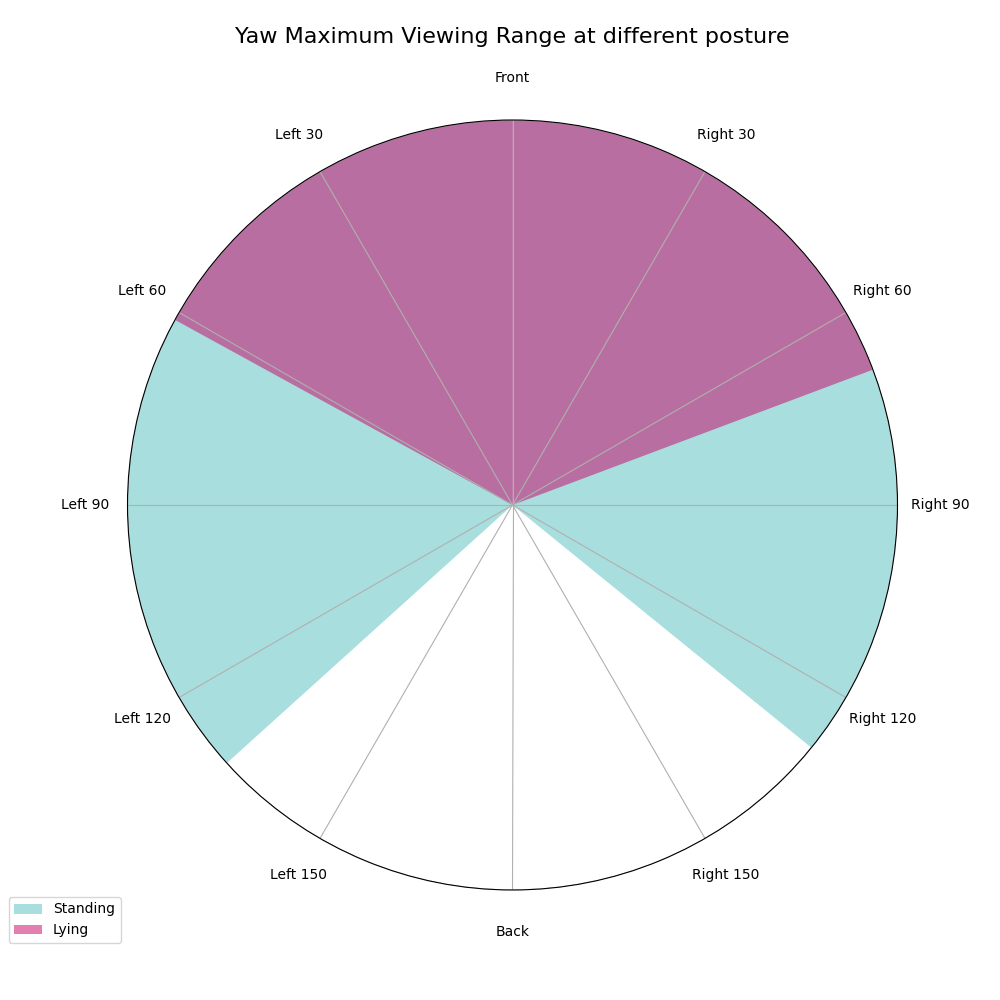
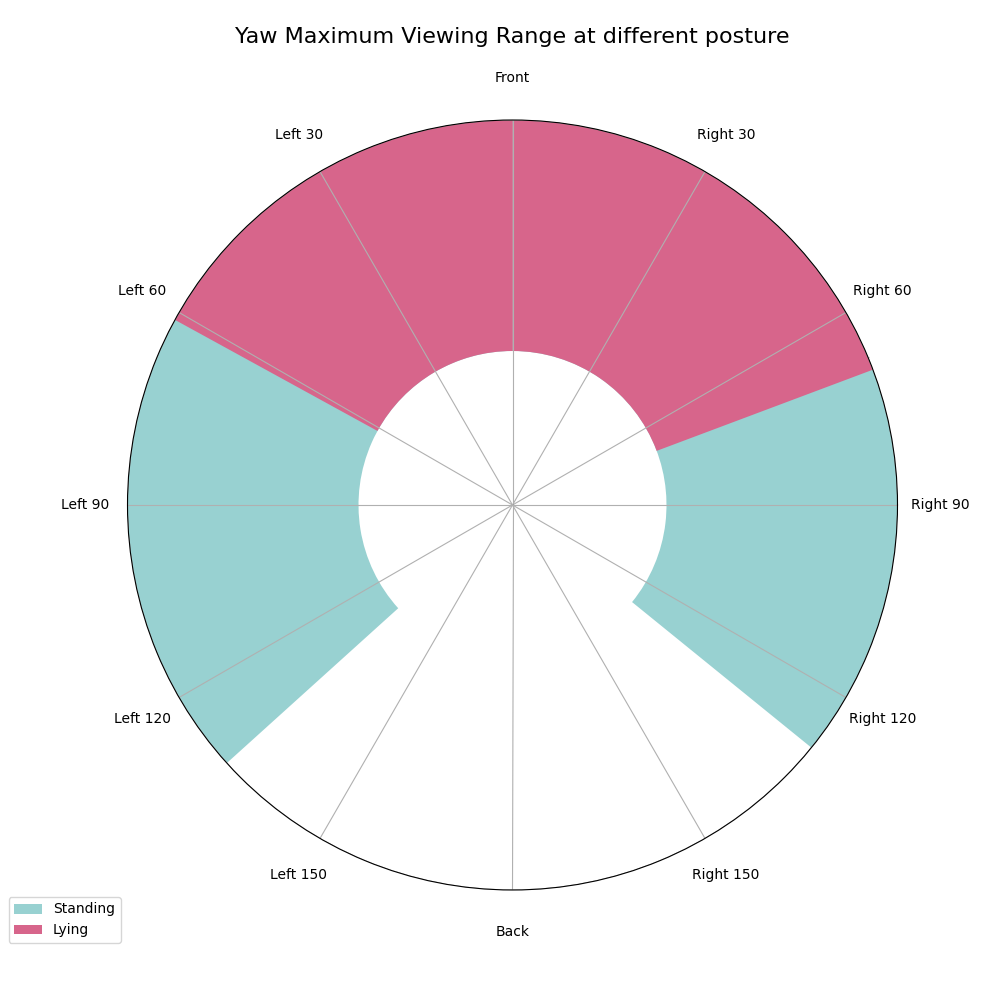
change some color, figure

Changed region(s): [[0.186, 0.124, 0.868, 0.62]]

diff --git a/O3_AverageTrunkRotation.py b/O3_AverageTrunkRotation.py
@@ -1,0 +1,69 @@
+import pandas as pd
+import statistics as stat
+import csv
+from scipy.stats import ttest_rel, wilcoxon
+import matplotlib.pyplot as plt
+from Constant import *
+
+
+max_trunk_dict = dict()
+for pos in Postures:
+    max_trunk_dict[pos] = dict()
+    for dir in Directions:
+        max_trunk_dict[pos][dir] = dict()
+        for ang in ["TrunkYaw", "TrunkPitch"]:
+            max_trunk_dict[pos][dir][ang] = list()
+
+
+def FindMaximumValue(data_list):
+    max = 0
+    for value in data_list:
+        if abs(value) > max:
+            max = value
+    return max
+
+
+# Calculate mean of maximum trunk rotation in 3 tasks
+for i in Participants:
+    for pos in Postures:
+        filepath = (
+            "Result Raw (ReCalculate)/O3_Final/" + f"Formative_O3_P{i}_{pos}_Final.csv"
+        )
+        df = pd.read_csv(filepath)
+
+        for dir in Directions:
+            for ang in ["TrunkYaw", "TrunkPitch"]:
+                max_list = list()
+                for task in range(1, 4):
+                    task_df = df.loc[df["Direction"] == dir].loc[df["tCount"] == task]
+                    max_list.append(FindMaximumValue(task_df[ang]))
+                max_trunk_dict[pos][dir][ang].append(stat.fmean(max_list))
+
+# Calculate p-value: Wilcoxon signed-rank test
+for dir in Directions:
+    for ang in ["TrunkYaw", "TrunkPitch"]:
+        print(f"{dir} {ang}")
+        print(
+            wilcoxon(
+                max_trunk_dict["Lying"][dir][ang], max_trunk_dict["Standing"][dir][ang]
+            )
+        )
+
+# Calculate mean between participants
+for pos in Postures:
+    for dir in Directions:
+        for ang in ["TrunkYaw", "TrunkPitch"]:
+            # Remove outlier
+            for value in max_trunk_dict[pos][dir][ang]:
+                if abs(value) > 50:
+                    max_trunk_dict[pos][dir][ang].remove(value)
+            max_trunk_dict[pos][dir][ang] = stat.fmean(max_trunk_dict[pos][dir][ang])
+
+# Write to CSV
+with open("Result Processed/O3_MaxTrunkRotation.csv", "w", newline="") as csvfile:
+    writer = csv.writer(csvfile)
+    writer.writerow(["Type", "Direction", "Posture", "TrunkRotation"])
+    for ang in ["TrunkYaw", "TrunkPitch"]:
+        for dir in Directions:
+            for pos in Postures:
+                writer.writerow([ang, dir, pos, abs(max_trunk_dict[pos][dir][ang])])

diff --git a/T1_DrawFig.py b/T1_DrawFig.py
@@ -69,7 +69,7 @@ ax = plt.subplot(projection="polar")
 N = int(360 / 30)
 angles = [n / float(N) * 2 * pi for n in range(N)]
 begin = pi / 2
-bottom = 0
+bottom = 4
 
 for p in Postures:
     value = range_data[p]["Left"] / 180 * pi
@@ -79,8 +79,8 @@ for p in Postures:
         10,
         width=value,
         bottom=bottom,
-        color=Colors[p][0],
-        alpha=0.5,
+        color=Colors[p][1],
+        alpha=1,
         label=p,
     )
     value = range_data[p]["Right"] / 180 * pi
@@ -90,8 +90,8 @@ for p in Postures:
         10,
         width=value,
         bottom=bottom,
-        color=Colors[p][0],
-        alpha=0.5,
+        color=Colors[p][1],
+        alpha=1,
     )
 
 # Draw x axis
@@ -130,7 +130,7 @@ ax = plt.subplot(projection="polar")
 N = int(360 / 30)
 angles = [n / float(N) * 2 * pi for n in range(N)]
 begin = 0
-bottom = 0
+bottom = 4
 
 for p in Postures:
     value = range_data[p]["Up"] / 180 * pi
@@ -140,8 +140,8 @@ for p in Postures:
         10,
         width=value,
         bottom=bottom,
-        color=Colors[p][0],
-        alpha=0.5,
+        color=Colors[p][1],
+        alpha=1,
         label=p,
     )
     value = range_data[p]["Down"] / 180 * pi
@@ -151,8 +151,8 @@ for p in Postures:
         10,
         width=value,
         bottom=bottom,
-        color=Colors[p][0],
-        alpha=0.5,
+        color=Colors[p][1],
+        alpha=1,
     )
 
 # Draw x axis

diff --git a/T2_EffortBarChart.py b/T2_EffortBarChart.py
@@ -85,6 +85,8 @@ bars2 = ax.bar(
     capsize=3,
 )
 
+# plt.ylim(1, 7)
+
 # Add Text
 ax.set_xlabel("Directions")
 ax.set_ylabel("Effort Scores")
